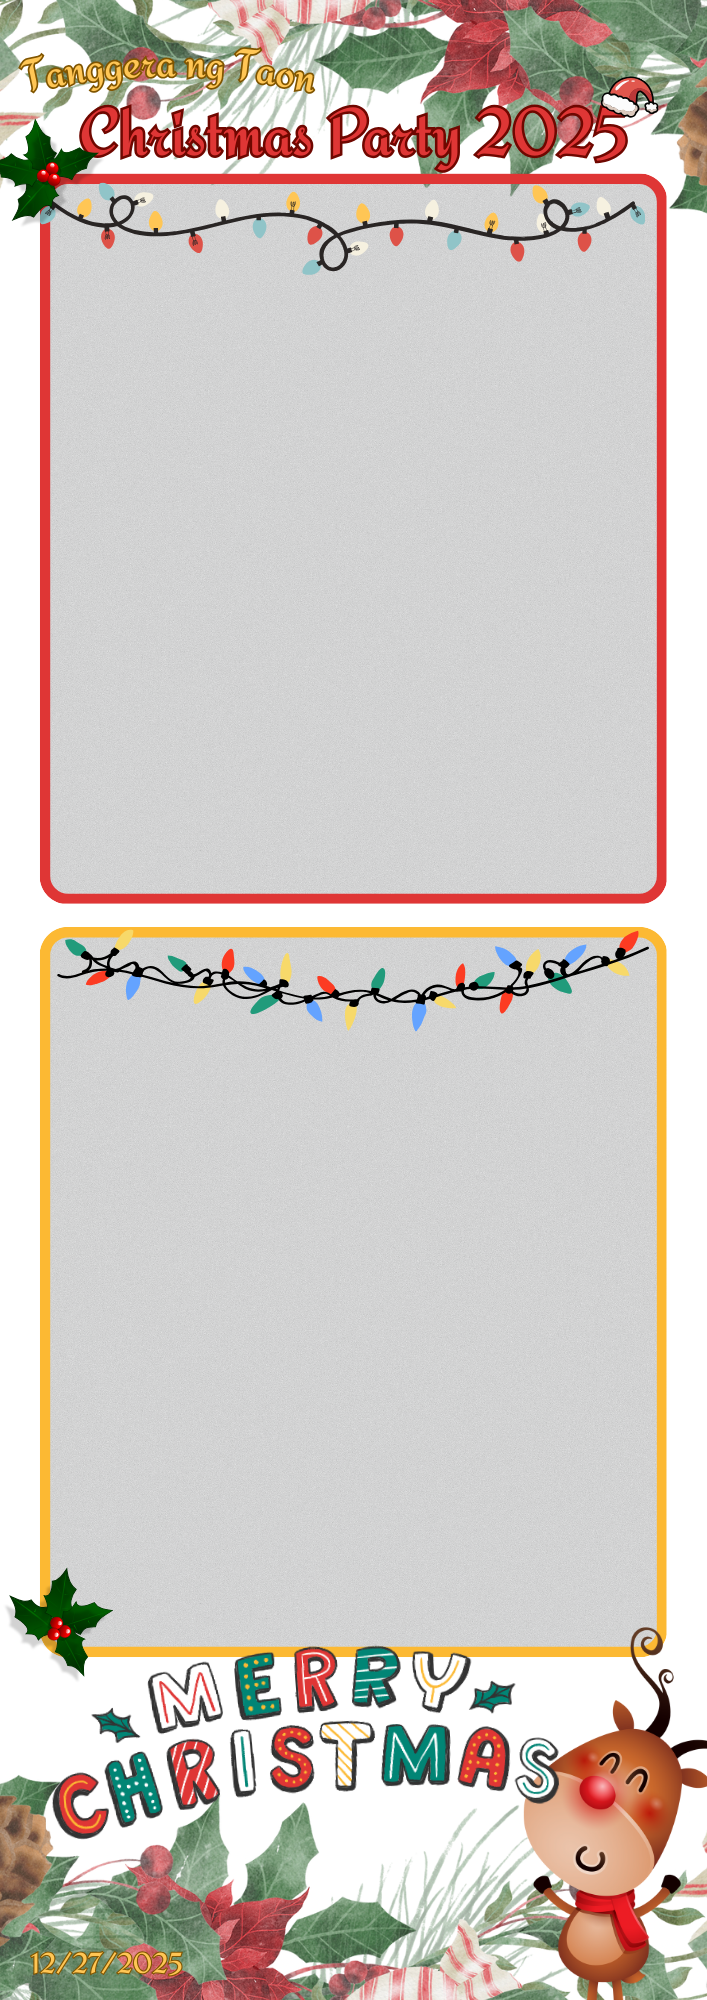
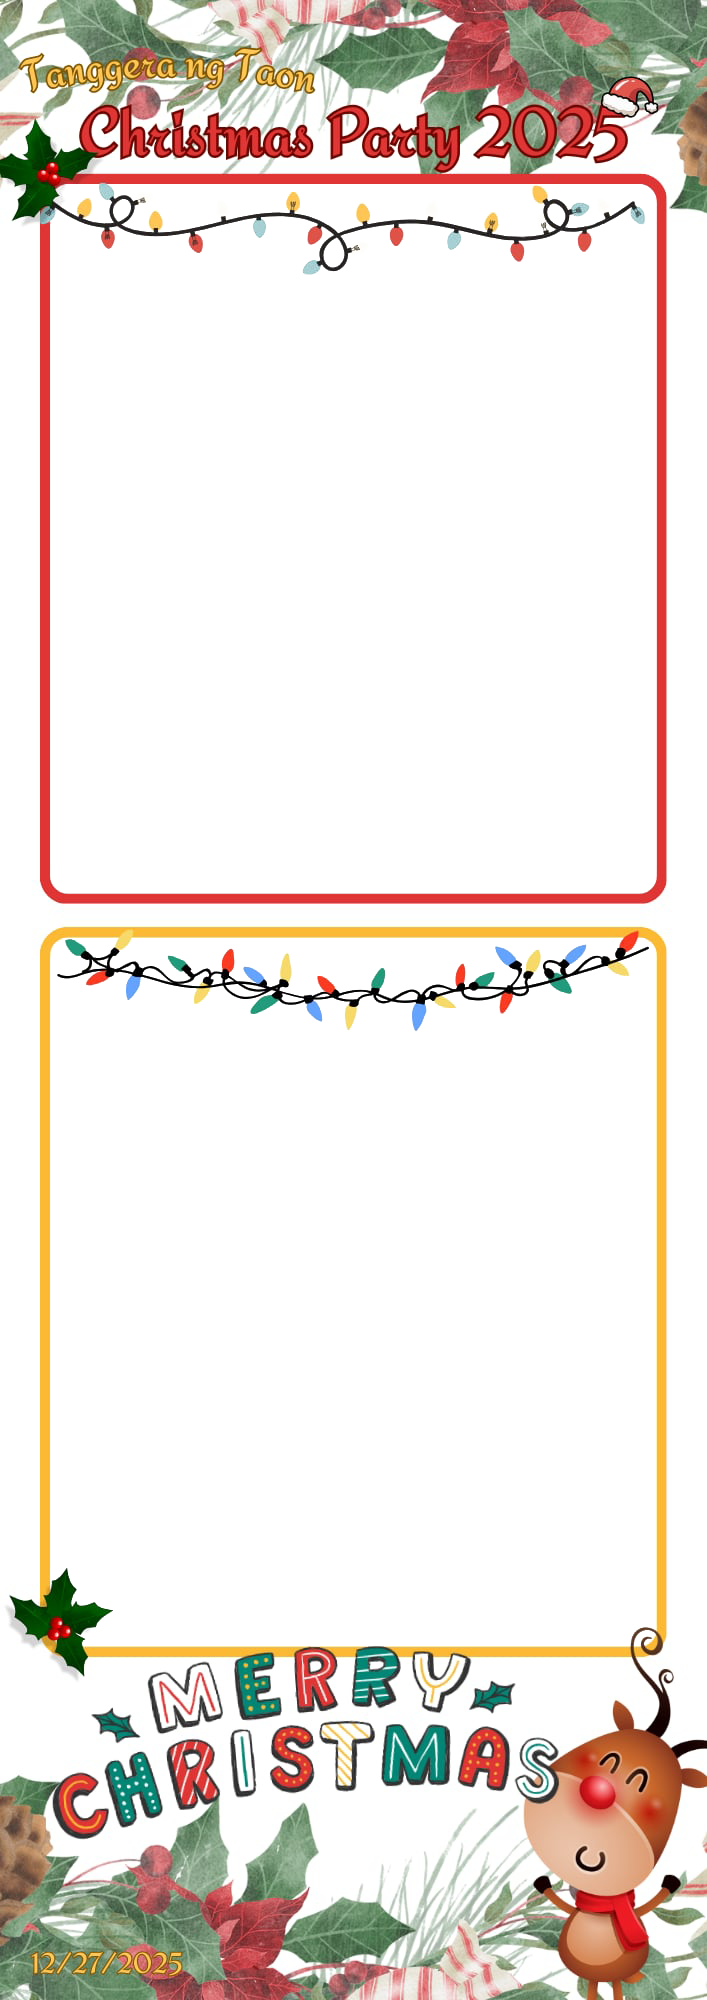
Fix photo display with transparent frame slots
- Updated frame PNG files with truly transparent photo slot areas
- Added comprehensive debug logging
- Photos now display correctly within frame slots
- Frame overlay properly shows photos through transparent areas

🤖 Generated with [Claude Code](https://claude.com/claude-code)

diff --git a/js/canvas.js b/js/canvas.js
@@ -168,19 +168,26 @@ const CanvasCompositor = (function() {
                     // Fill white background
                     ctx.fillStyle = '#ffffff';
                     ctx.fillRect(0, 0, canvas.width, canvas.height);
+                    console.log('DEBUG: White background drawn');
 
                     // Use exact photo slot positions from template
                     const photoSlots = template.photoSlots || [];
 
+                    console.log('DEBUG: capturedImages count:', capturedImages.length);
+                    console.log('DEBUG: photoSlots count:', photoSlots.length);
+
                     // Draw each captured image into its designated slot
                     capturedImages.forEach((imgData, index) => {
+                        console.log('DEBUG: Drawing image', index, 'to slot:', photoSlots[index]);
                         if (index < photoSlots.length) {
                             drawImageToArea(ctx, imgData, photoSlots[index], isMirrored, canvas.width);
                         }
                     });
 
-                    // Draw the custom frame image on top
+                    // Draw the custom frame image on top (with transparent photo slots)
+                    console.log('DEBUG: Drawing frame overlay on top');
                     ctx.drawImage(frameImg, 0, 0, canvas.width, canvas.height);
+                    console.log('DEBUG: Frame overlay drawn - photos should show through transparent areas');
 
                     // Clean up blob URL
                     URL.revokeObjectURL(blobUrl);
@@ -316,11 +323,17 @@ const CanvasCompositor = (function() {
      * Draw captured image data to specified area
      */
     function drawImageToArea(ctx, imgData, photoArea, isMirrored, canvasWidth) {
+        console.log('DEBUG drawImageToArea: imgData =', imgData);
+        console.log('DEBUG drawImageToArea: imgData.width =', imgData?.width, 'imgData.height =', imgData?.height);
+        console.log('DEBUG drawImageToArea: photoArea =', photoArea);
+
         ctx.save();
 
         // imgData is an ImageData or canvas from a previous capture
         const sourceWidth = imgData.width;
         const sourceHeight = imgData.height;
+
+        console.log('DEBUG drawImageToArea: sourceWidth =', sourceWidth, 'sourceHeight =', sourceHeight);
 
         const sourceAspect = sourceWidth / sourceHeight;
         const areaAspect = photoArea.width / photoArea.height;
@@ -339,11 +352,19 @@ const CanvasCompositor = (function() {
             sy = (sourceHeight - sh) / 2;
         }
 
-        ctx.drawImage(
-            imgData,
-            sx, sy, sw, sh,
-            photoArea.x, photoArea.y, photoArea.width, photoArea.height
-        );
+        console.log('DEBUG: About to drawImage with sx:', sx, 'sy:', sy, 'sw:', sw, 'sh:', sh);
+        console.log('DEBUG: Destination: x:', photoArea.x, 'y:', photoArea.y, 'w:', photoArea.width, 'h:', photoArea.height);
+
+        try {
+            ctx.drawImage(
+                imgData,
+                sx, sy, sw, sh,
+                photoArea.x, photoArea.y, photoArea.width, photoArea.height
+            );
+            console.log('DEBUG: drawImage completed successfully');
+        } catch (error) {
+            console.error('DEBUG: drawImage FAILED:', error);
+        }
 
         ctx.restore();
     }
